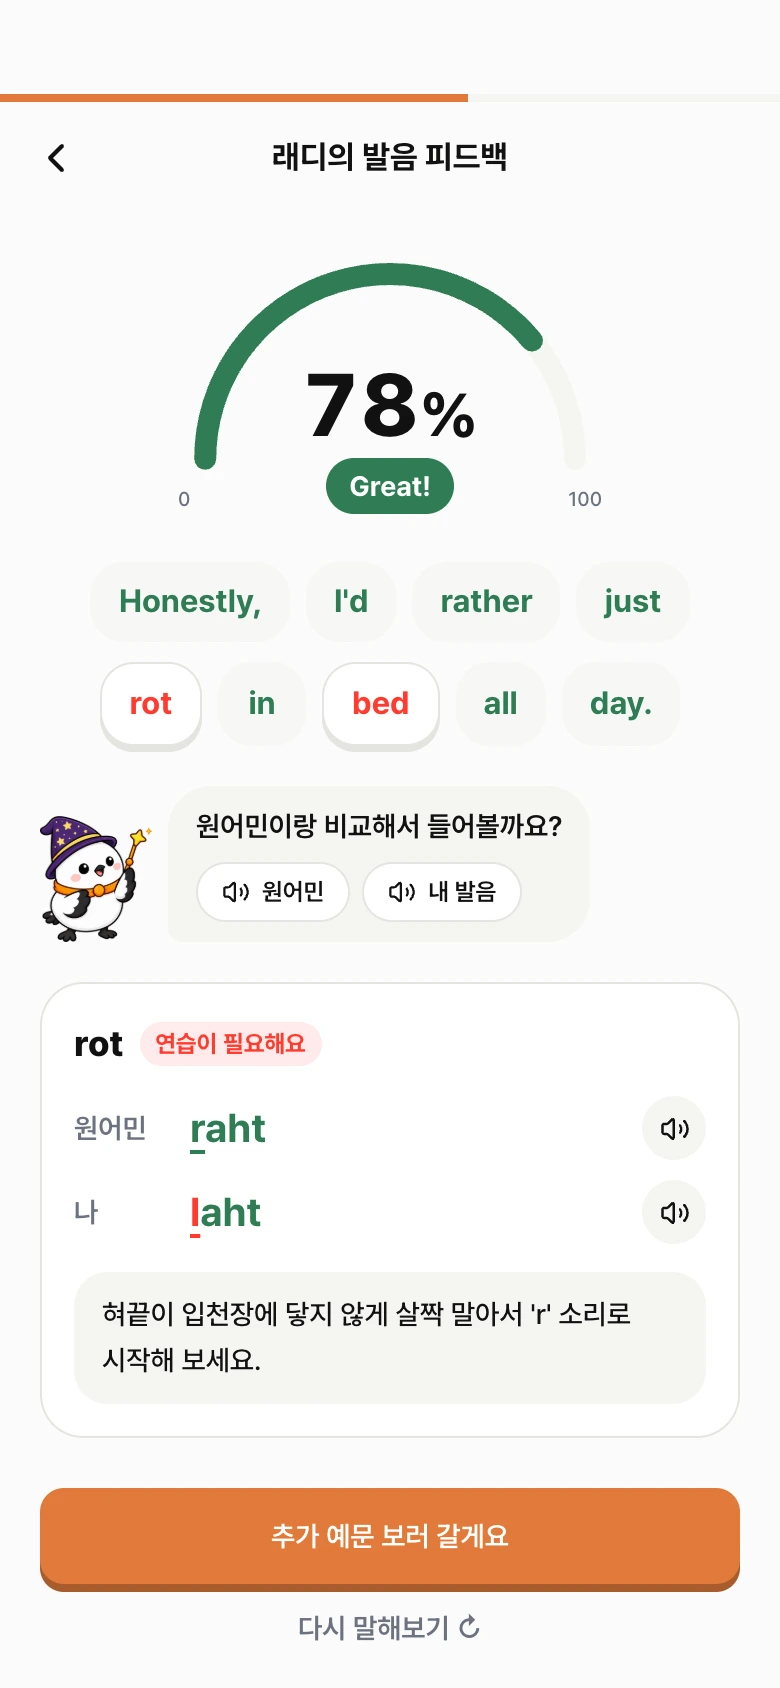
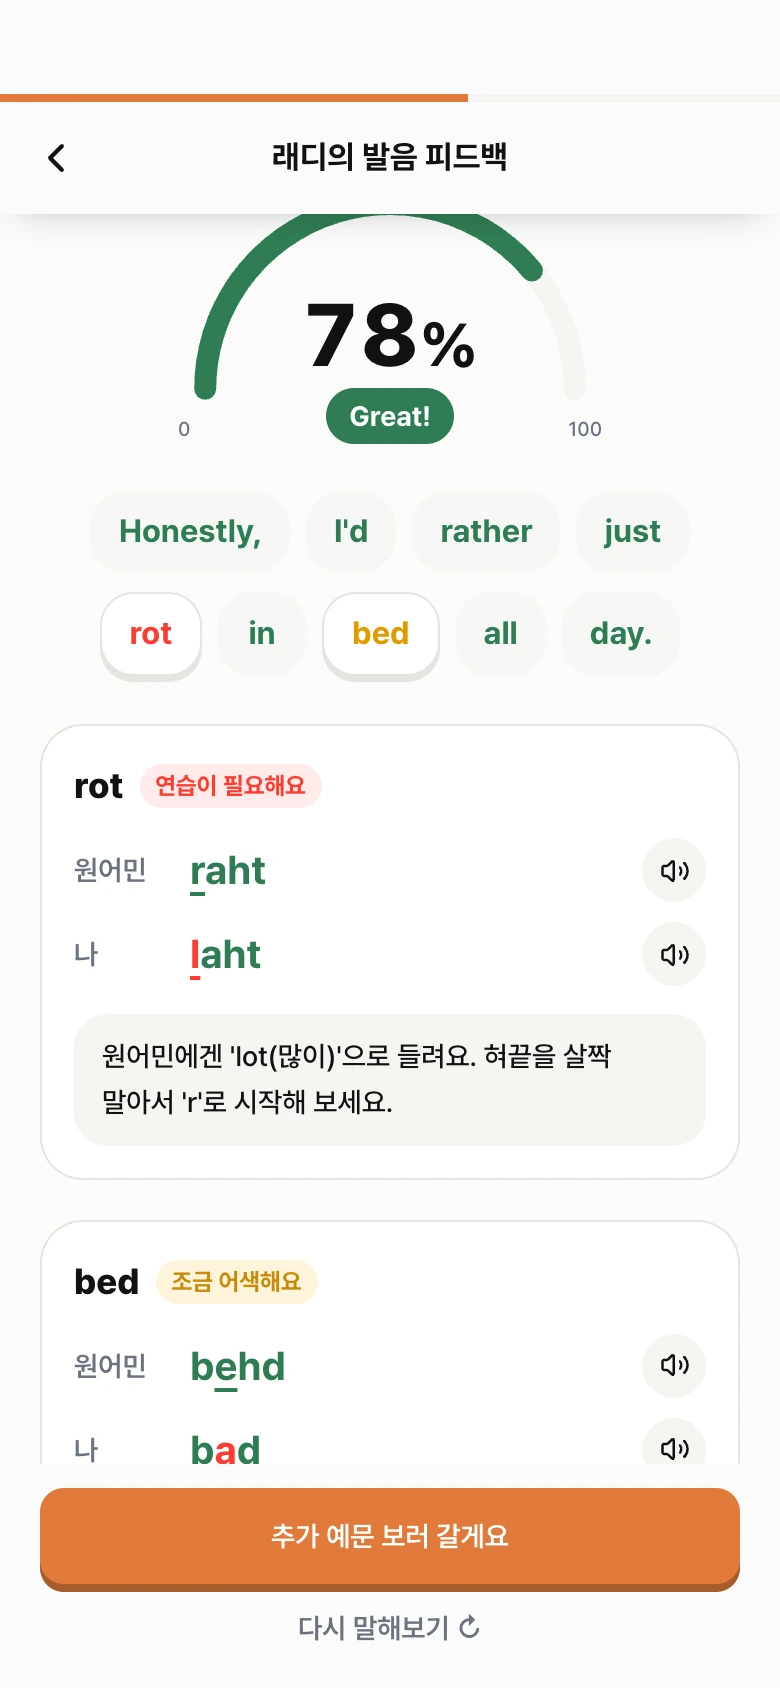
fix(web): 발음 화면에서 틀린 단어 카드가 코칭까지 다 보이게 다시 찍는다
- 비교 듣기 말풍선을 빼고 rot 카드를 위로 올려 랜딩 폰에서 잘리지 않는다
- 코칭은 원어민에게 lot(많이)으로 들린다고 짚어 주고, bed는 아깝게 틀린 노란 단어로 둔다

diff --git a/apps/web/src/app/(public)/[lang]/_model/screen-image.ts b/apps/web/src/app/(public)/[lang]/_model/screen-image.ts
@@ -2,7 +2,7 @@
 import type { Locale } from '@/shared/i18n/locale';
 
 /** 캡처를 다시 찍으면 올린다 — 같은 주소의 옛 그림이 브라우저에 하루 동안 남기 때문이다 */
-const SCREENS_VERSION = 8;
+const SCREENS_VERSION = 10;
 
 /** 폰 화면 캡처 경로 — 일본어 화면은 일본어로 다시 찍은 캡처를 쓴다 */
 export const screenPath = (locale: Locale, shot: string) =>
